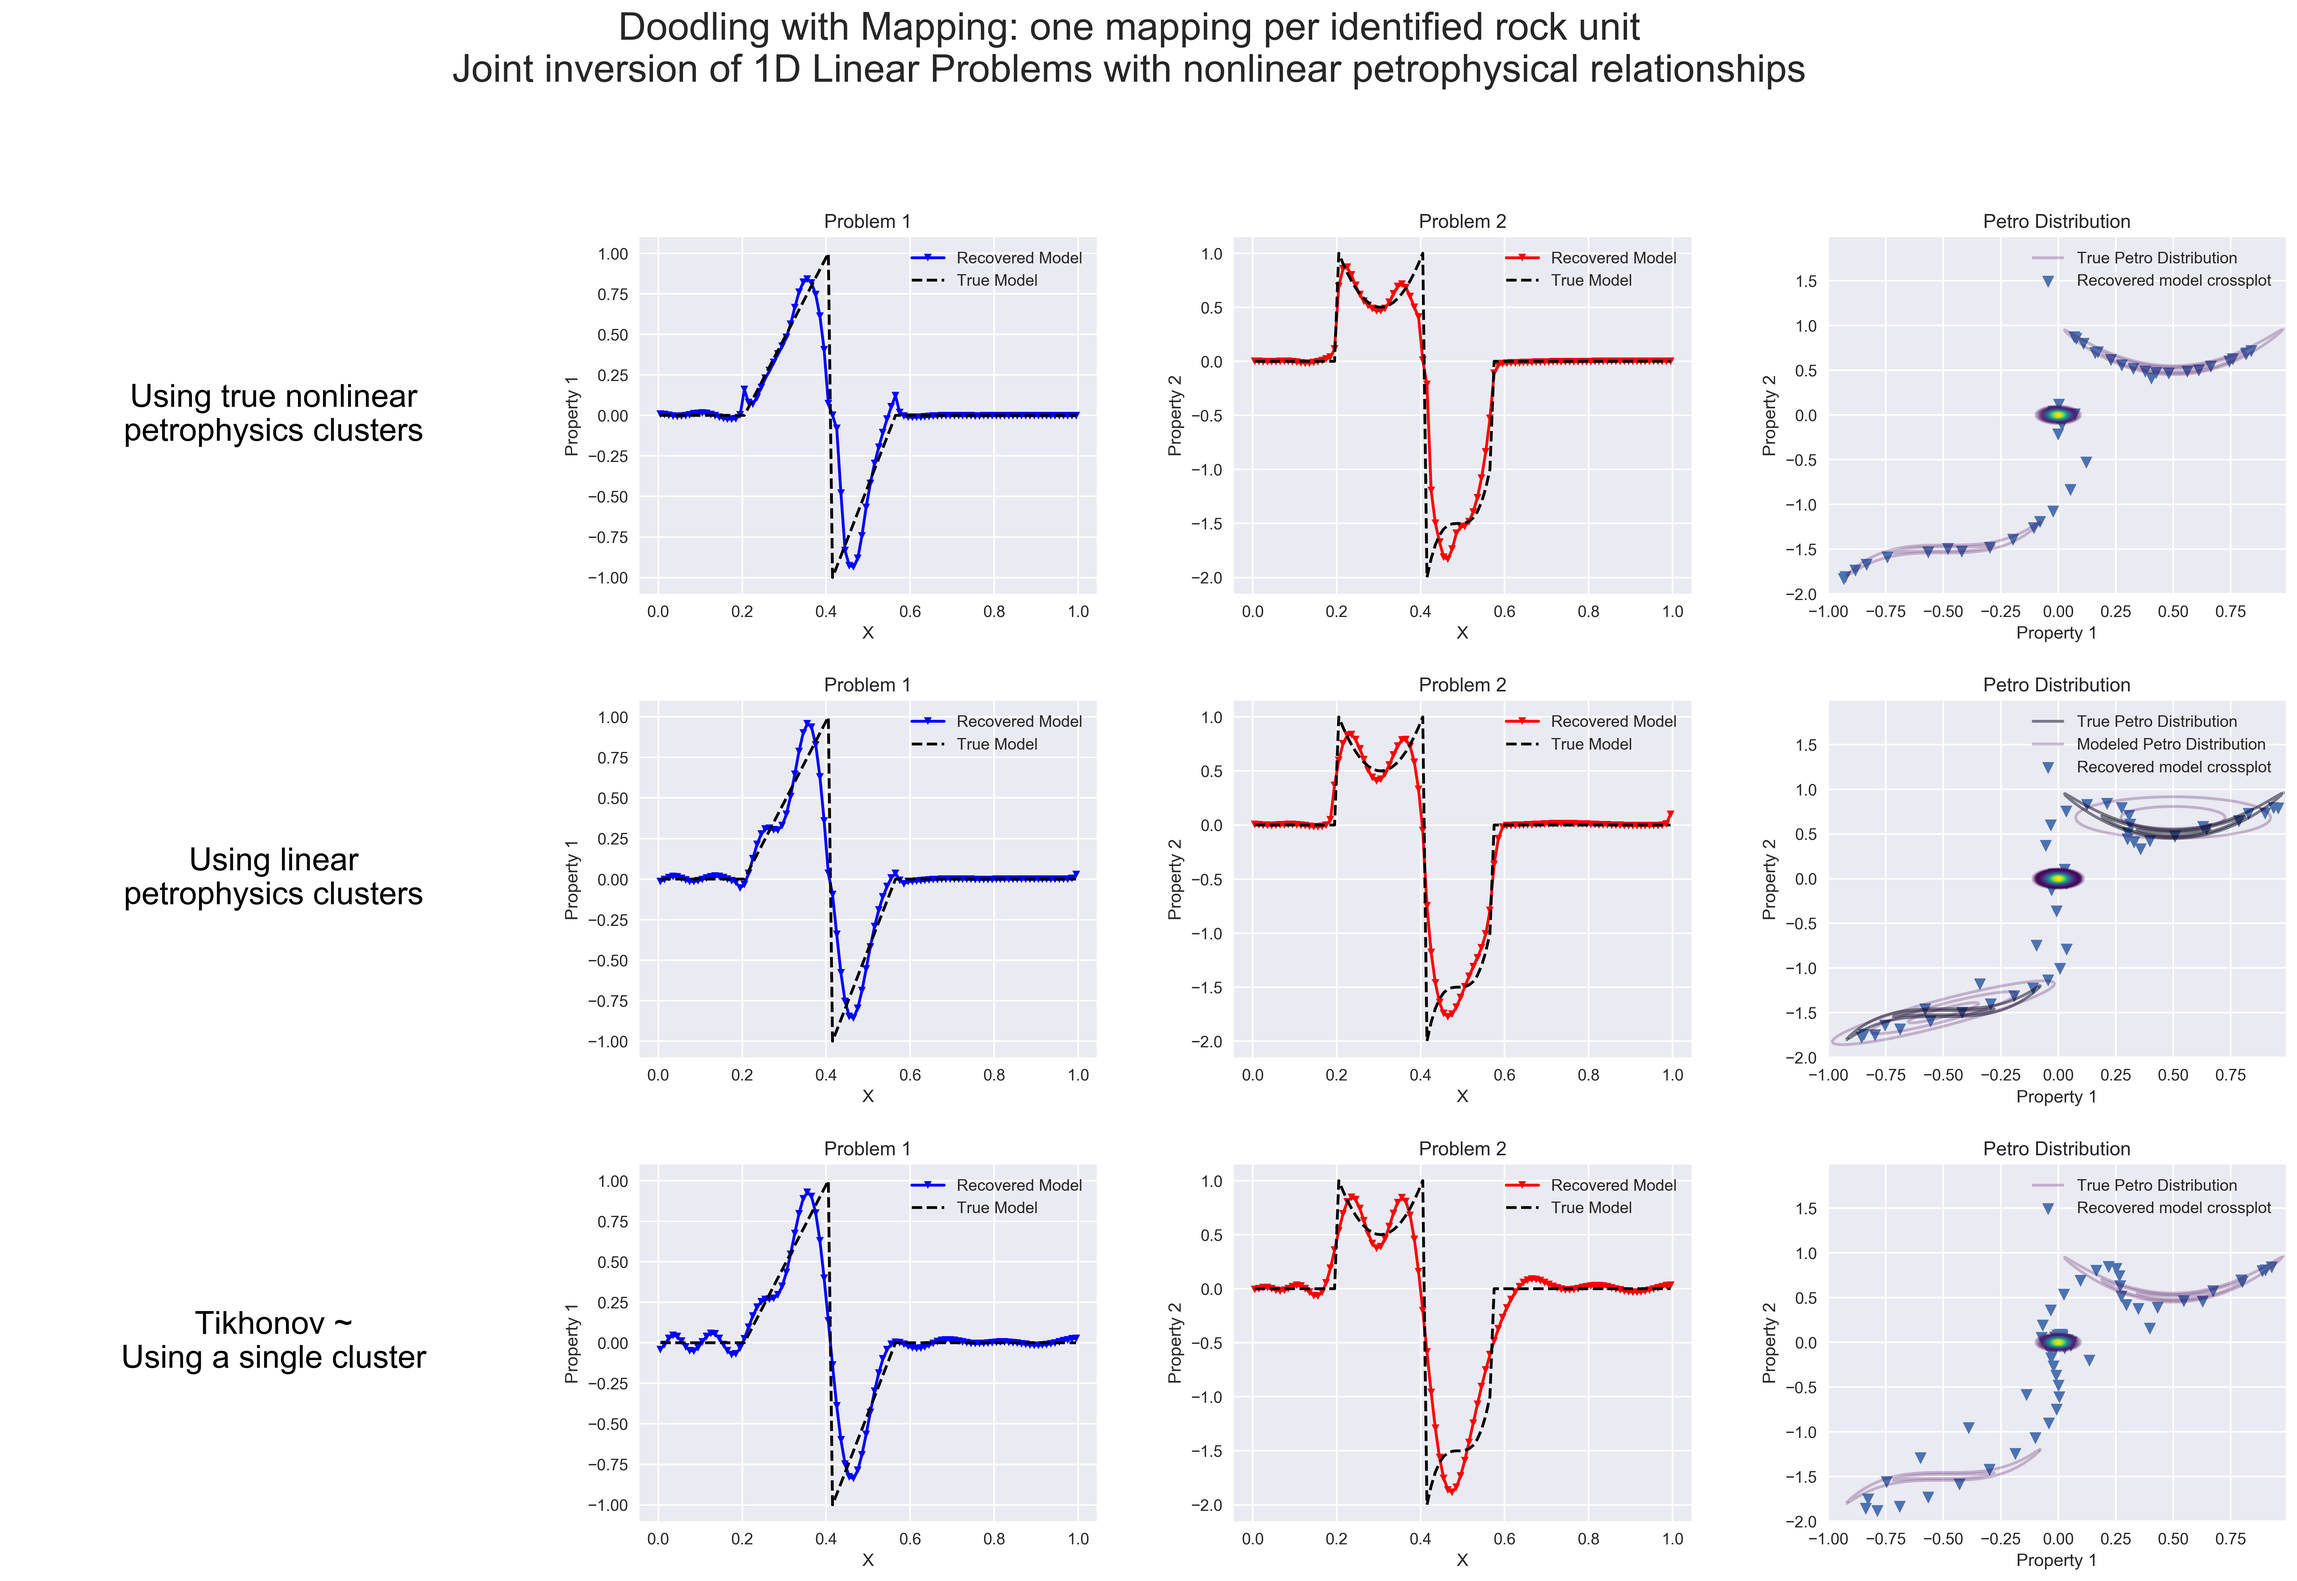
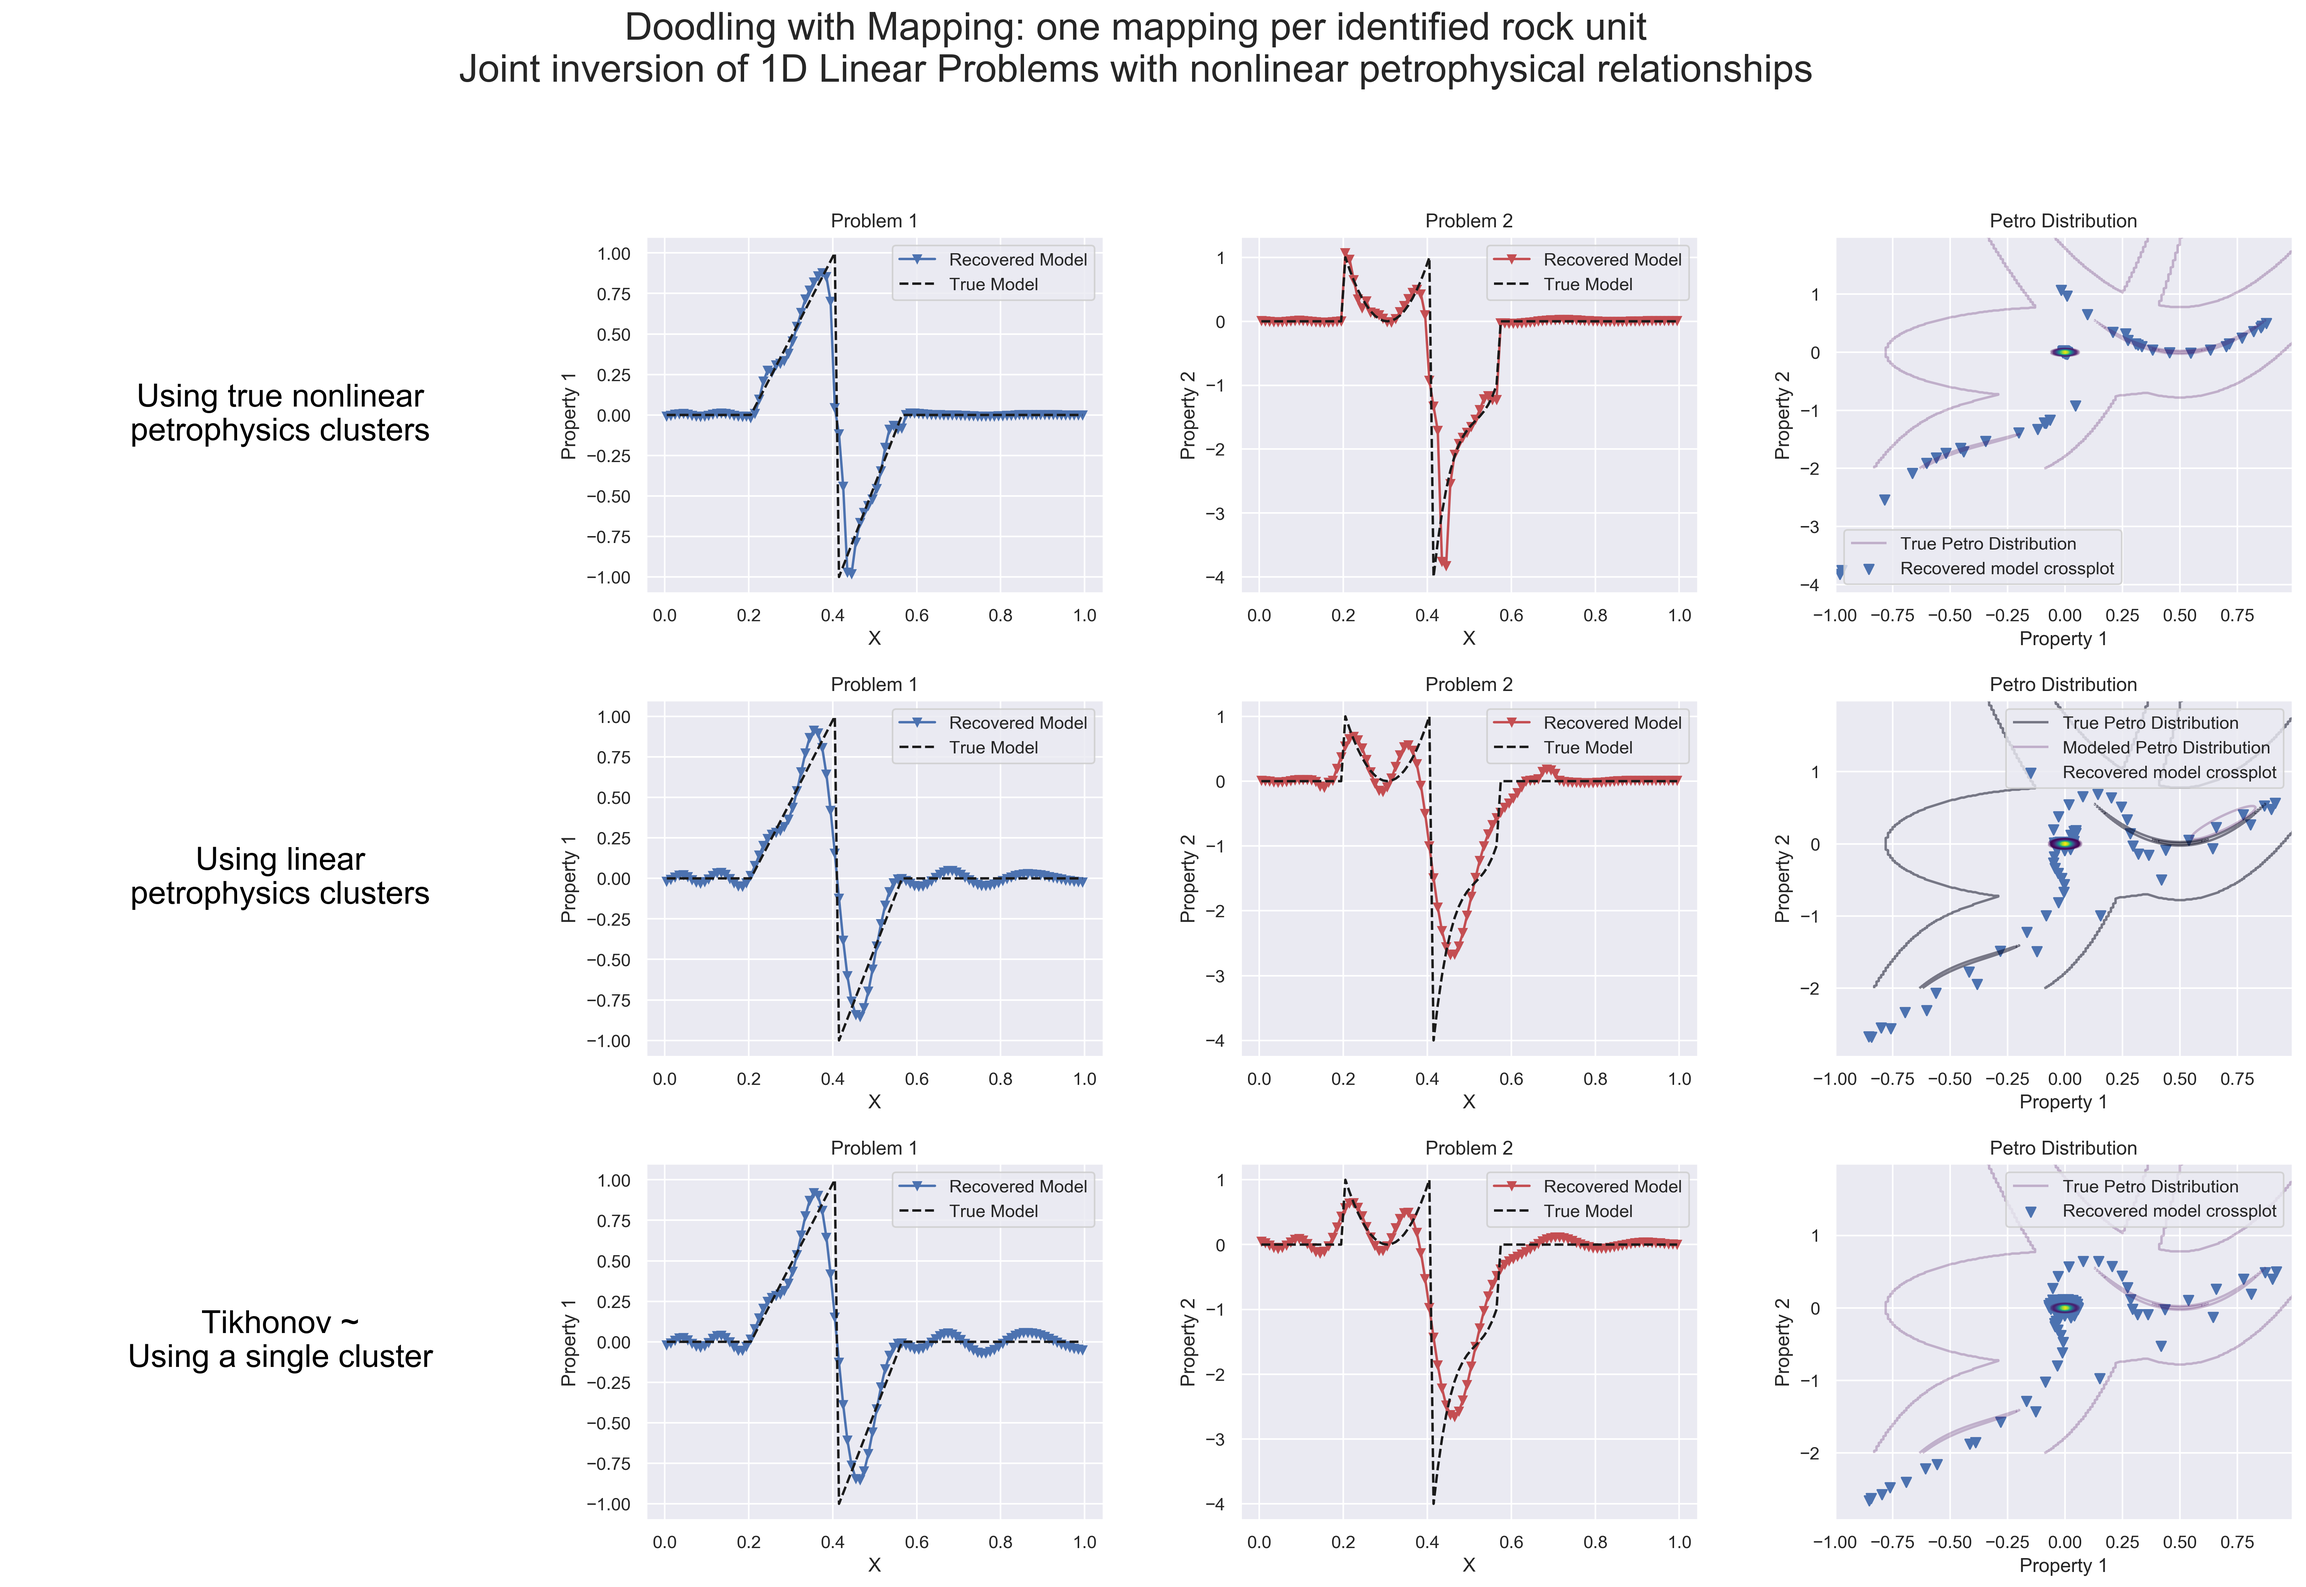
fix indexpoint for GMMRF

diff --git a/SimPEG/Utils/petroutils.py b/SimPEG/Utils/petroutils.py
@@ -798,8 +798,9 @@ class GaussianMixtureMarkovRandomField(GaussianMixtureWithPrior):
             print('Computing neighbors, it may take several minutes.')
             _, self.indexneighbors = self.kdtree.query(self.xyz, k=self.kneighbors+1)
         else:
-            self.indexneighbors=indexneighbors
+            self.indexneighbors = indexneighbors
 
+        self.indexpoint = copy.deepcopy(self.indexneighbors)
         self.index_anisotropy = index_anisotropy
         self.index_kdtree = index_kdtree
         if self.index_anisotropy is not None and self.mesh.gridCC.ndim != 1:
@@ -816,12 +817,12 @@ class GaussianMixtureMarkovRandomField(GaussianMixtureWithPrior):
 
             print('Computing new neighbors based on rock units, it may take several minutes.')
             for i, unitindex in enumerate(self.index_anisotropy['index']):
-                _, self.indexneighbors[unitindex] = self.index_kdtree[i].query(self.unitxyz[i][unitindex], k=self.kneighbors+1)
+                _, self.indexpoint[unitindex] = self.index_kdtree[i].query(self.unitxyz[i][unitindex], k=self.kneighbors+1)
 
 
     def computeG(self, z, w):
             logG = (self.T/(2.*(self.kneighbors+1))) * (
-                (z[self.indexneighbors] + w[self.indexneighbors]).sum(
+                (z[self.indexpoint] + w[self.indexpoint]).sum(
                     axis=1
                 )
             )

diff --git a/examples/14-petro/Petro_Linear_1D_joint_WithMapping.py b/examples/14-petro/Petro_Linear_1D_joint_WithMapping.py
@@ -401,5 +401,5 @@ axes[11].legend(
 axes[11].set_xlabel('Property 1')
 axes[11].set_ylabel('Property 2')
 plt.subplots_adjust(wspace=0.3, hspace=0.3, top=0.85)
-#fig.savefig("LinearWithMapping.png", dpi=300, bbox_inches='tight')
+fig.savefig("LinearWithMapping.png", dpi=300, bbox_inches='tight')
 plt.show()
